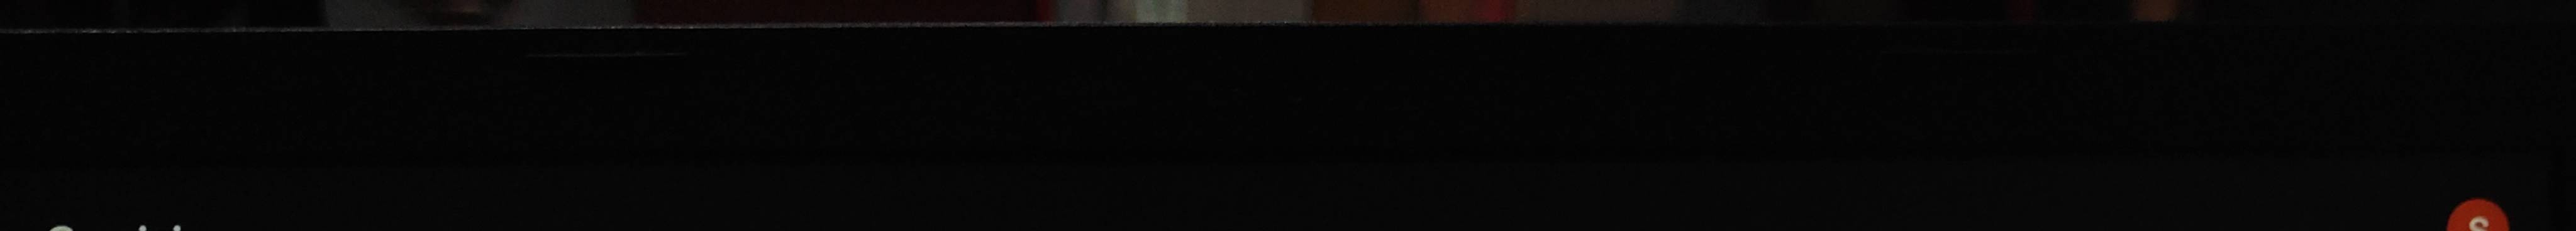
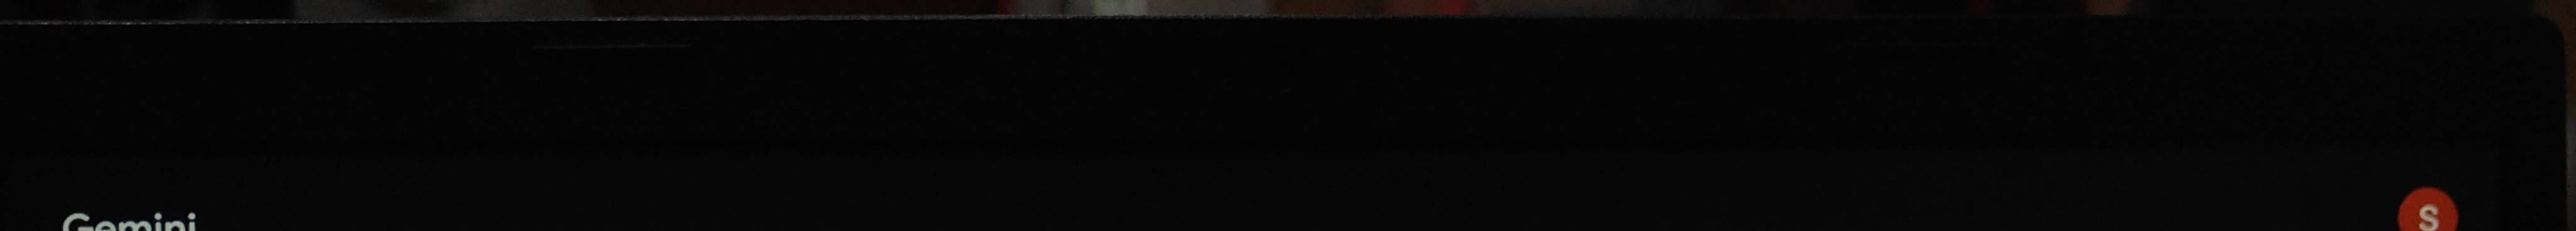
Updated pi related codeand error handling

diff --git a/controller/orchestrator/system_controller.py b/controller/orchestrator/system_controller.py
@@ -66,6 +66,11 @@ class SystemController:
         # Latest streamed JPEG bytes per device_id (in-memory only).
         self._latest_stream_frames: dict[str, bytes] = {}
         self._latest_stream_seq: dict[str, int | None] = {}
+        # Primary-frame processing runs on a worker thread so verification/scroll
+        # uploads can still be routed while a question is being processed.
+        self._processing_lock = threading.Lock()
+        self._processing_active: bool = False
+        self._pending_primary_frame: Optional[tuple[bytes, str]] = None
 
     @property
     def state(self) -> SystemState:
@@ -321,17 +326,54 @@ class SystemController:
             self._workflow.receive_verification_frame(image_data)
             return
 
+        self._enqueue_primary_frame(image_data, device_id)
+
+    def _enqueue_primary_frame(self, image_data: bytes, device_id: str) -> None:
+        """Queue a primary question frame for background processing."""
+        with self._processing_lock:
+            if self._processing_active:
+                # Keep only the latest pending frame while busy.
+                self._pending_primary_frame = (image_data, device_id)
+                logger.debug("Primary frame queued as pending while processor busy")
+                return
+            self._processing_active = True
+
+        t = threading.Thread(
+            target=self._process_primary_frame_async,
+            args=(image_data, device_id),
+            daemon=True,
+            name="primary-frame-processor",
+        )
+        t.start()
+
+    def _process_primary_frame_async(self, image_data: bytes, device_id: str) -> None:
+        """Run heavy workflow processing off the API thread."""
         try:
+            if self._workflow is None:
+                logger.error("Workflow engine not initialized")
+                return
+
             decision = self._workflow.process_question(image_data)
+
+            if decision and decision.outcome.value == "conflict":
+                self._last_conflict_decision = {
+                    "click_letter": decision.click_letter,
+                    "match_result": decision.match_result,
+                    "conflict": decision.conflict,
+                }
+
+            if decision and decision.outcome.value == "click":
+                self._workflow.advance_to_next()
+                # Trigger the next capture after a brief delay for the screen to settle
+                self._schedule_timer(1.5, self._request_capture)
+
         except PiConnectionError as e:
-            # Never crash the upload path; pause+alert for operator intervention.
             logger.error("Pi connection error during processing: %s", e)
             self._sm.force_error(f"pi_not_connected:{e}")
             self._alert_mgr.raise_alert(
                 AlertType.INPUT_FAILURE,
                 f"Pi not connected during click: {e}. Start Pi listener and press CONTINUE.",
             )
-            return
         except PiCommandError as e:
             logger.error("Pi command failed during processing: %s", e)
             self._sm.force_error(f"pi_command_failed:{e}")
@@ -339,19 +381,17 @@ class SystemController:
                 AlertType.INPUT_FAILURE,
                 f"Pi command failed: {e}. Check USB cable and Pi HID, then press CONTINUE.",
             )
-            return
-
-        if decision and decision.outcome.value == "conflict":
-            self._last_conflict_decision = {
-                "click_letter": decision.click_letter,
-                "match_result": decision.match_result,
-                "conflict": decision.conflict,
-            }
-
-        if decision and decision.outcome.value == "click":
-            self._workflow.advance_to_next()
-            # Trigger the next capture after a brief delay for the screen to settle
-            self._schedule_timer(1.5, self._request_capture)
+        finally:
+            next_item: Optional[tuple[bytes, str]] = None
+            with self._processing_lock:
+                if self._pending_primary_frame is not None:
+                    next_item = self._pending_primary_frame
+                    self._pending_primary_frame = None
+                    self._processing_active = True
+                else:
+                    self._processing_active = False
+            if next_item is not None:
+                self._process_primary_frame_async(next_item[0], next_item[1])
 
     def on_stream_frame_received(self, image_data: bytes, device_id: str = "", seq: int | None = None) -> None:
         """

diff --git a/controller/capture_pipeline/option_detector.py b/controller/capture_pipeline/option_detector.py
@@ -103,8 +103,8 @@ class OptionDetector:
     SEARCH_STRIP_MAX_WIDTH = 220
     SEARCH_STRIP_WIDTH_FRAC = 0.13
     SEARCH_MAX_RIGHT_FRAC = 0.20
-    SEARCH_TOP_MARGIN_FRAC = 0.08
-    SEARCH_BOTTOM_MARGIN_FRAC = 0.12
+    SEARCH_TOP_MARGIN_FRAC = 0.02
+    SEARCH_BOTTOM_MARGIN_FRAC = 0.06
 
     # HoughCircles parameters (kept loose — we filter with clustering afterwards)
     HOUGH_DP = 1.2
@@ -445,7 +445,8 @@ class OptionDetector:
         if gap_penalty > 0:
             return -1e6
         score += 250.0 if self.MIN_EXPECTED_OPTIONS <= k <= self.MAX_EXPECTED_OPTIONS else -200.0
-        score += (k * 12.0)
+        # Strongly prefer fuller 5-row sequences when available.
+        score += (k * 26.0)
         score += (mean_count * 6.0)
         score -= (x_std * 0.9)
         score -= (y_std * 0.7)

diff --git a/controller/main.py b/controller/main.py
@@ -102,6 +102,7 @@ def main() -> None:
             host=CONTROLLER_HOST,
             port=CONTROLLER_PORT,
             log_level="info",
+            access_log=False,
         )
     except KeyboardInterrupt:
         logger.info("Keyboard interrupt received")
